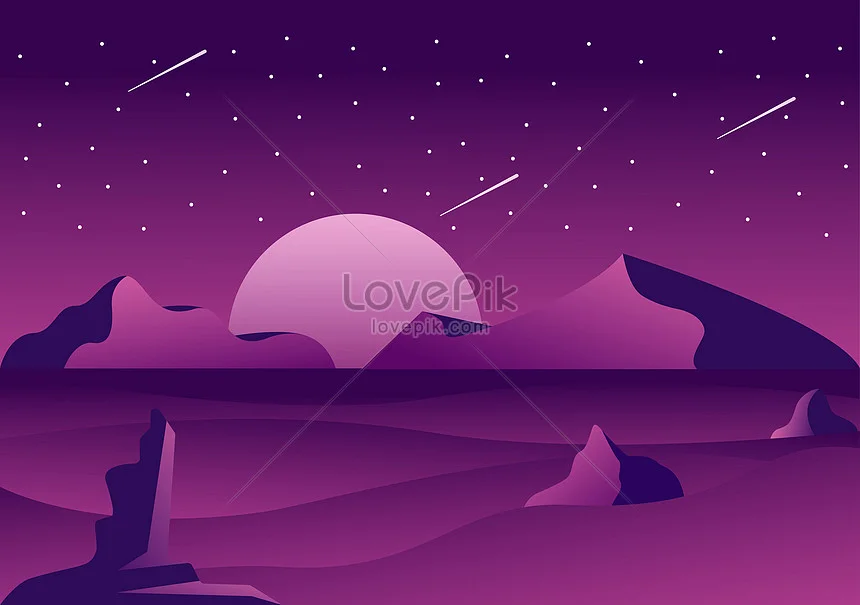
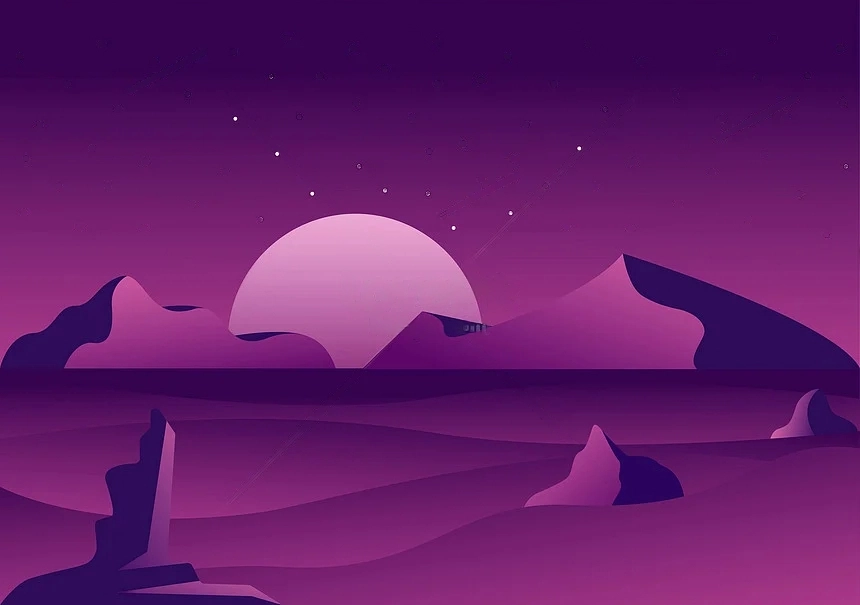
feat & style: created and styled sub header component

diff --git a/checktxn/src/components/sub-header.jsx b/checktxn/src/components/sub-header.jsx
@@ -1,0 +1,48 @@
+import React from 'react';
+import style from '../App.module.scss';
+import Ethereum from '../images/Ethereum.webp';
+import polygon from '../images/polygon.webp';
+import solana from '../images/solana.webp';
+import Binance from '../images/Binance.webp';
+
+function SubHeader() {
+    return <section className={style.chains}>
+    <div className={style.chainDiv}>
+        <div className={style.imgDiv}>
+            <img src={Ethereum} className={style.eth} alt='eth logo'></img>
+        </div>
+        <div className={style.txtDiv}>
+            <span className={style.fTxt}>ETH</span>
+            <p className={style.lTxt}>Ethereum</p>
+        </div>
+    </div>    
+    <div className={style.chainDiv}>
+        <div className={style.imgDiv}>
+            <img src={polygon} className={style.eth} alt='matic logo'></img>
+        </div>
+        <div className={style.txtDiv}>
+            <span className={style.fTxt}>Matic</span>
+            <p className={style.lTxt}>Polygon</p>
+        </div>
+    </div>    
+    <div className={style.chainDiv}>
+        <div className={style.imgDiv}>
+            <img src={solana} className={style.eth} alt='sol logo'></img>
+        </div>
+        <div className={style.txtDiv}>
+            <span className={style.fTxt}>SOL</span>
+            <p className={style.lTxt}>Solana</p>
+        </div>
+    </div>      
+    <div className={style.chainDiv}>
+        <div className={style.imgDiv}>
+            <img src={Binance} className={style.eth} alt='bnb logo'></img>
+        </div>
+        <div className={style.txtDiv}>
+            <span className={style.fTxt}>BNB</span>
+            <p className={style.lTxt}>Binance</p>
+        </div>
+    </div>             
+    </section>
+}
+export default SubHeader

diff --git a/checktxn/src/App.module.scss b/checktxn/src/App.module.scss
@@ -63,3 +63,49 @@ $bgColor: #120545;
         }
     }
 }
+.mainBody {
+    background-image: url(./images/bg.webp);
+    background-size: cover;
+    background-repeat: no-repeat;
+    height: 100vh;
+    background-position: center;
+    max-width: 100%;
+    padding-top: 35px;
+    .chains {
+        max-width: 100%;
+        display: flex;
+        flex-direction: row;
+        justify-content: space-around;
+        align-items: center;
+        .chainDiv {
+            width: 200px;
+            height: 90px;
+            display: flex;
+            flex-direction: row;
+            justify-content: center;
+            align-items: center;
+            gap: 20px;
+            border-radius: 5px;
+            background-color: #1205456b;
+            .imgDiv {
+                img {
+                    width: 50px;
+                    height: 50px;
+                }
+            }
+            .txtDiv {
+                display: flex;
+                flex-direction: column;
+                max-width: 100%;
+                .fTxt {
+                    @include styleAttr();
+                    font-size: 14px;
+                }
+                .lTxt {
+                    @include styleAttr();
+                    font-size: 14px;
+                }
+            }
+        }
+    }
+}

diff --git a/checktxn/src/App.jsx b/checktxn/src/App.jsx
@@ -1,10 +1,14 @@
 import style from './App.module.scss';
 import Header from './components/header';
+import SubHeader from './components/sub-header';
 
 function App() {
   return (
     <div className={style.App}>
-      <Header />    
+      <Header /> 
+      <section className={style.mainBody}>
+        <SubHeader />        
+        </section>   
     </div>
   );
 }
